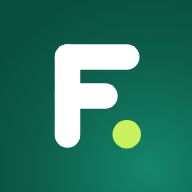
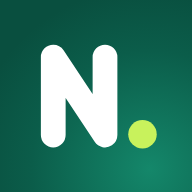
0.12.1

Changed region(s): [[0.1875, 0.2188, 0.8438, 0.7812]]

diff --git a/style.css b/style.css
@@ -1,4 +1,4 @@
-/* Finanças — aparência (0.12)
+/* Níquel — aparência (0.12)
    1. Fontes   2. Estilos (Mata, Ameixa, Maré) em claro e escuro   3. Estrutura   4. Componentes   5. Telas
    O modo (claro/escuro) e o estilo vêm de js/theme.js, que marca <html data-mode data-style>. */
 
@@ -72,6 +72,7 @@
 /* ---------- 3. estrutura ---------- */
 *{box-sizing:border-box}
 html{-webkit-text-size-adjust:100%}
+html,body{overflow-x:hidden; overflow-x:clip}
 body{margin:0; background:var(--bg); color:var(--ink); font:16px/1.45 var(--font); -webkit-tap-highlight-color:transparent; -webkit-font-smoothing:antialiased}
 /* faixa da cor do topo atrás do relógio e da bateria do iPhone (app instalado na tela de início) */
 body::before{content:''; position:fixed; top:0; left:0; right:0; height:env(safe-area-inset-top); background:var(--hero); z-index:4}
@@ -112,6 +113,7 @@ button{touch-action:manipulation}
 .card.flat, .card.inset{background:var(--field); box-shadow:none; border-color:transparent; margin:10px 0}
 .card.flat h2{font-size:15px}
 .card.late h2{color:var(--neg)}
+.card, .sheet .panel, .hcard{overflow-wrap:break-word}
 .hint{color:var(--muted); font-size:14px; margin:6px 0}
 .row{display:flex; gap:8px; flex-wrap:wrap; align-items:center}
 .grow{flex:1}
@@ -132,6 +134,12 @@ button{touch-action:manipulation}
 
 label{display:block; font-size:13px; font-weight:700; color:var(--muted); margin:14px 0 5px}
 input,select,textarea{width:100%; font-size:16px; padding:12px; border:1.5px solid var(--line); border-radius:var(--r-in); background:var(--field); min-height:48px}
+/* nenhum campo passa da largura da tela. No iPhone o campo de data tem largura mínima própria e texto centralizado:
+   sem a aparência nativa ele obedece à largura, como os outros, e o toque continua abrindo o calendário do sistema */
+input,select,textarea{max-width:100%; min-width:0}
+input[type=date],input[type=month],input[type=time]{-webkit-appearance:none; appearance:none; display:block; text-align:left; line-height:1.45}
+input::-webkit-date-and-time-value{text-align:left; min-height:1.45em}
+input[type=date]::-webkit-calendar-picker-indicator{margin-left:auto}
 input:focus,select:focus,textarea:focus{outline:none; border-color:var(--brand); background:var(--card)}
 input[type=checkbox]{width:22px; height:22px; min-height:0; accent-color:var(--brand); flex:none}
 .check{display:flex; align-items:center; gap:10px; padding:8px 0; font-size:15px; font-weight:400; color:var(--ink); margin:0}
@@ -141,7 +149,12 @@ input[type=checkbox]{width:22px; height:22px; min-height:0; accent-color:var(--b
 .seg button:disabled{opacity:.35}
 .seg.small button{font-size:13px; padding:8px 2px}
 #seg button{font-size:13px; padding-inline:2px; letter-spacing:-.01em}
+#seg button{white-space:nowrap; overflow:hidden; text-overflow:ellipsis}
+.seg button{overflow-wrap:normal}
+@media (max-width:350px){ #seg button{font-size:11.5px} .top h1{font-size:19px} .chip{padding:7px 9px; font-size:11px} .top{padding-left:12px; padding-right:12px} }
 .grid2{display:grid; grid-template-columns:1fr 1fr; gap:0 10px}
+.grid2>*, .rgrid>*, .kpis>*, .acts>*, .mgrid>*, .looks>*{min-width:0}
+.row>select, .row>input{flex:1 1 140px; width:auto}
 .pos{color:var(--pos)} .neg{color:var(--neg)}
 .num{font-variant-numeric:tabular-nums; white-space:nowrap}
 .pm{display:flex; gap:8px; align-items:stretch}
@@ -273,7 +286,7 @@ input[type=checkbox]{width:22px; height:22px; min-height:0; accent-color:var(--b
 .shead{flex:none; height:34px; display:grid; place-items:center; position:relative}
 .shead .grab{width:42px; height:5px; border-radius:3px; background:var(--line)}
 .shead .sx{position:absolute; right:10px; top:8px; width:34px; height:34px; border-radius:50%; border:0; background:var(--field); color:var(--muted); font-size:15px; font-weight:800; cursor:pointer; z-index:2; display:grid; place-items:center}
-.sheet .panel{background:var(--card); width:100%; max-width:560px; max-height:92vh; overflow:auto; border-radius:26px 26px 0 0; padding:18px 16px calc(16px + env(safe-area-inset-bottom)); -webkit-overflow-scrolling:touch}
+.sheet .panel{background:var(--card); width:100%; max-width:560px; max-height:92vh; overflow:hidden auto; overscroll-behavior:contain; border-radius:26px 26px 0 0; padding:18px 16px calc(16px + env(safe-area-inset-bottom)); -webkit-overflow-scrolling:touch}
 .sheet .box>.panel{max-width:none; max-height:none; border-radius:0; padding-top:0; flex:1; min-height:0}
 .sheet .panel.wide{max-width:720px}
 .sheet .box>.panel.wide{max-width:none}
@@ -428,7 +441,7 @@ body.locked #app, body.locked #sheet, body.locked .sheet.ask{visibility:hidden}
 @media (min-width:900px){
   .shell{padding:0 0 30px 232px}
   .tabs{top:0; bottom:0; right:auto; width:232px; flex-direction:column; justify-content:flex-start; gap:4px; border-top:0; border-right:1px solid var(--line); padding:20px 12px}
-  .tabs::before{content:'Finanças'; font-size:24px; font-weight:var(--hw); letter-spacing:var(--ls); padding:6px 12px 18px; color:var(--brand)}
+  .tabs::before{content:'Níquel'; font-size:24px; font-weight:var(--hw); letter-spacing:var(--ls); padding:6px 12px 18px; color:var(--brand)}
   .tabs button{flex:none; height:48px; flex-direction:row; justify-content:flex-start; gap:12px; font-size:15px; padding:0 12px; border-radius:var(--r-btn)}
   .tabs button svg{padding:0}
   .tabs button[aria-current="page"]{background:var(--brand-soft); color:var(--brand)}
@@ -448,4 +461,5 @@ body.locked #app, body.locked #sheet, body.locked .sheet.ask{visibility:hidden}
   .shead .grab{visibility:hidden}
   .toast{bottom:40px}
 }
-@media (prefers-reduced-motion:reduce){ *{animation-duration:.01ms !important; transition-duration:.01ms !important} }
+/* quem pediu menos movimento no aparelho: sem a subida da folha e sem as transições (só nas peças que têm; uma regra geral em * atrasava o bloqueio de esconder a tela) */
+@media (prefers-reduced-motion:reduce){ .sheet .box{animation:none} .toast, .fab, .btn, .qa i, .tabs button svg, .fat>summary::before{transition:none} }

diff --git a/js/app.js b/js/app.js
@@ -1,4 +1,4 @@
-/* Finanças · Fase 1 — núcleo: login, dados no aparelho + Drive, primeira configuração e telas básicas. */
+/* Níquel (antes "Finanças") · Fase 1 — núcleo: login, dados no aparelho + Drive, primeira configuração e telas básicas. */
 import * as auth from './auth.js';
 import * as sync from './sync.js';
 import * as drive from './drive.js';
@@ -14,7 +14,7 @@ import * as H from './imp/holerite.js';
 import * as L from './link.js';
 import * as PH from './holder.js';
 
-export const VERSION = '0.12.0';
+export const VERSION = '0.12.1';
 const CID_KEY = 'fin.cfg.clientId';
 const clientId = () => (window.FIN_CONFIG && FIN_CONFIG.clientId) || (() => { try { return localStorage.getItem(CID_KEY) || ''; } catch { return ''; } })();
 
@@ -135,7 +135,7 @@ function route() {
 
 /* ---------- sem ID do cliente (quem publicar a própria cópia) ---------- */
 function screenNoClient() {
-  app().innerHTML = `<div class="hero"><img src="icons/icon-192.png" alt=""><h1>Finanças</h1>
+  app().innerHTML = `<div class="hero"><img src="icons/icon-192.png" alt=""><h1>Níquel</h1>
     <p>Esta cópia ainda não tem o <b>ID do cliente</b> do Google. Siga o README do projeto para criar o seu e cole aqui.</p>
     <label for="cid">ID do cliente OAuth</label><input id="cid" autocomplete="off" autocapitalize="off" spellcheck="false" placeholder="…apps.googleusercontent.com">
     <button class="btn primary block" id="saveCid" style="margin-top:12px">Salvar</button>
@@ -150,7 +150,7 @@ function screenNoClient() {
 
 /* ---------- boas-vindas ---------- */
 function screenWelcome() {
-  app().innerHTML = `<div class="hero"><img src="icons/icon-192.png" alt=""><h1>Finanças</h1>
+  app().innerHTML = `<div class="hero"><img src="icons/icon-192.png" alt=""><h1>Níquel</h1>
     <p>Seu controle financeiro, com os dados guardados no <b>seu</b> Google Drive. Ninguém mais tem acesso.</p>
     <button class="btn primary block" id="login" style="margin-top:18px">Entrar com o Google</button>
     <p class="hint" id="offmsg">${navigator.onLine ? '' : 'Sem internet. Conecte-se para o primeiro acesso.'}</p>
@@ -1719,7 +1719,7 @@ function lockScreen() {
   const st = lock.settings(); let pin = '';
   const draw = msg => {
     const w = lock.waitSeconds();
-    box.innerHTML = `<div class="lockin"><img src="icons/icon-192.png" alt=""><h1>Finanças</h1><p class="hint" id="lk-msg">${msg || (w ? `Muitas tentativas. Aguarde ${w} s.` : 'Digite o PIN')}</p>
+    box.innerHTML = `<div class="lockin"><img src="icons/icon-192.png" alt=""><h1>Níquel</h1><p class="hint" id="lk-msg">${msg || (w ? `Muitas tentativas. Aguarde ${w} s.` : 'Digite o PIN')}</p>
       <div class="dots">${Array.from({ length: st.pinLen }, (_, i) => `<i class="${i < pin.length ? 'on' : ''}"></i>`).join('')}</div>
       <div class="pad">${[1, 2, 3, 4, 5, 6, 7, 8, 9].map(n => `<button data-k="${n}">${n}</button>`).join('')}
         ${st.bio ? '<button data-k="bio" aria-label="Usar Face ID ou Touch ID">◉</button>' : '<span></span>'}<button data-k="0">0</button><button data-k="del" aria-label="Apagar">⌫</button></div>
@@ -2357,7 +2357,7 @@ function pageAjustes() {
       <input type="file" id="impfile" accept=".json,application/json" hidden></div>
     <div class="card"><h2>Este aparelho</h2><p class="hint">Sair desconecta o Google. Remover apaga a cópia deste aparelho; os dados continuam no Drive.</p>
       <div class="row"><button class="btn" data-act="logout">Sair</button><button class="btn danger" data-act="forget">Remover dados deste aparelho</button></div></div>
-    <p class="hint" style="text-align:center">Finanças ${VERSION}</p>`;
+    <p class="hint" style="text-align:center">Níquel ${VERSION}</p>`;
   $('#impfile').onchange = ev => importFile(ev.target.files[0], false);
   bindSecurity();
   $('#page').onclick = async e => {

diff --git a/index.html b/index.html
@@ -6,12 +6,12 @@
 <meta name="apple-mobile-web-app-capable" content="yes">
 <meta name="mobile-web-app-capable" content="yes">
 <meta name="apple-mobile-web-app-status-bar-style" content="black-translucent">
-<meta name="apple-mobile-web-app-title" content="Finanças">
+<meta name="apple-mobile-web-app-title" content="Níquel">
 <meta name="theme-color" content="#0b5d4a">
 <meta http-equiv="Content-Security-Policy" content="default-src 'self'; script-src 'self' https://accounts.google.com; connect-src 'self' https://www.googleapis.com https://oauth2.googleapis.com https://accounts.google.com; frame-src https://accounts.google.com; img-src 'self' data: blob:; style-src 'self' 'unsafe-inline' https://accounts.google.com; font-src 'self' data:; worker-src 'self' blob:; object-src 'none'; base-uri 'self'; form-action 'self'">
 <meta name="referrer" content="no-referrer">
 <meta name="description" content="Controle financeiro pessoal com os dados no seu Google Drive.">
-<title>Finanças</title>
+<title>Níquel</title>
 <link rel="manifest" href="manifest.webmanifest">
 <link rel="apple-touch-icon" href="icons/apple-touch-icon.png">
 <link rel="icon" type="image/png" href="icons/icon-192.png">
@@ -24,6 +24,6 @@
 <div id="app"><p class="boot">Carregando…</p></div>
 <div id="sheet" class="sheet" hidden></div>
 <div id="toast" class="toast" role="status" aria-live="polite"></div>
-<noscript><p class="boot">Ative o JavaScript para usar o Finanças.</p></noscript>
+<noscript><p class="boot">Ative o JavaScript para usar o Níquel.</p></noscript>
 </body>
 </html>

diff --git a/sw.js b/sw.js
@@ -1,7 +1,7 @@
 // Guarda os arquivos do próprio app para abrir sem internet. Nada do Google (login, Drive) passa por aqui.
 // O leitor de PDF (vendor/pdfjs, ~1,5 MB) não entra na instalação: é guardado na primeira importação.
 // Ao mudar qualquer arquivo do app, aumente VERSION para os aparelhos baixarem a versão nova.
-const VERSION = 'v0.12.0';
+const VERSION = 'v0.12.1';
 const SHELL = ['./', 'index.html', 'style.css', 'config.js', 'manifest.webmanifest',
   'js/theme.js', 'js/app.js', 'js/auth.js', 'js/calc.js', 'js/drive.js', 'js/model.js', 'js/store.js', 'js/sync.js', 'js/lock.js', 'js/pix.js', 'js/imp/parcelas.js', 'js/imp/holerite.js', 'js/link.js', 'js/holder.js',
   'js/imp/pdftext.js', 'js/imp/parse.js', 'js/imp/classify.js', 'js/imp/plan.js',

diff --git a/js/calc.js b/js/calc.js
@@ -398,7 +398,7 @@ export function yearCsv(S, year) {
 
 /* ---------- lembretes: arquivo de calendário (.ics) com os vencimentos pendentes ---------- */
 const icsEsc = s => String(s || '').replace(/[\\;,]/g, c => '\\' + c).replace(/\n/g, '\\n');
-export function icsPendings(S, { until, hour = 9, appName = 'Finanças' } = {}) {
+export function icsPendings(S, { until, hour = 9, appName = 'Níquel' } = {}) {
   const stamp = new Date().toISOString().replace(/[-:]/g, '').replace(/\.\d+/, '');
   const lines = ['BEGIN:VCALENDAR', 'VERSION:2.0', 'PRODID:-//' + appName + '//PT-BR', 'CALSCALE:GREGORIAN', 'METHOD:PUBLISH', 'X-WR-CALNAME:' + icsEsc(appName + ' · vencimentos')];
   pendings(S, until).forEach(p => {

diff --git a/js/lock.js b/js/lock.js
@@ -57,8 +57,8 @@ export async function bioAvailable() {
 }
 export async function enrollBio() {
   const cred = await navigator.credentials.create({ publicKey: {
-    challenge: rand(32), rp: { name: 'Finanças', id: location.hostname },
-    user: { id: rand(16), name: 'financas', displayName: 'Finanças' },
+    challenge: rand(32), rp: { name: 'Níquel', id: location.hostname },
+    user: { id: rand(16), name: 'financas', displayName: 'Níquel' },
     pubKeyCredParams: [{ type: 'public-key', alg: -7 }, { type: 'public-key', alg: -257 }],
     authenticatorSelection: { authenticatorAttachment: 'platform', userVerification: 'required', residentKey: 'discouraged' }, timeout: 60000
   } });

diff --git a/README.md b/README.md
@@ -1,4 +1,4 @@
-# Finanças
+# Níquel
 
 Controle financeiro pessoal, gratuito, que roda no navegador e guarda os dados no **Google Drive de quem usa**. Feito primeiro para o celular (iPhone), com adaptação para computador.
 
@@ -7,7 +7,8 @@ Controle financeiro pessoal, gratuito, que roda no navegador e guarda os dados n
 - O app só enxerga os arquivos que ele mesmo criou no Drive (permissão `drive.file`).
 - Funciona sem internet: tudo fica salvo no aparelho e vai para o Drive quando a conexão volta. Se dois aparelhos alterarem ao mesmo tempo, as alterações são juntadas lançamento a lançamento.
 
-**Versão atual: 0.12.0.** Novidades:
+**Versão atual: 0.12.1.** Novidades:
+- **0.12.1:** o app passa a se chamar **Níquel** (antes "Finanças") e ganha ícone com a inicial. Nada muda nos dados: a pasta no Drive continua **Finanças (app)**, o arquivo continua `financas-dados.json` e o endereço do site é o mesmo.
 - **0.12.0:** **cara nova e ações à mão.** Aparência em Ajustes: modo **automático, claro ou escuro** e três **estilos** (Mata, Ameixa, Maré), cada um com cores, letra e formato de botão próprios; vale por aparelho. Topo colorido com o mês e o resultado em destaque; **atalhos** em Lançamentos (Importar, Despesa, Compra no cartão, Receita, Transferir, Pagar fatura); botão **+** em todas as abas. Na **fatura**, "Importar", "+ Compra", "Registrar pagamento" e "Editar cartão" ficam no alto, antes da lista de compras; em Lançamentos, cada fatura do mês tem "Abrir", "Importar" e "Pagar". Toda folha tem **botão de fechar** e os botões de salvar ficam presos embaixo; "+ Nova conta", "+ Novo cartão", "+ Nova reserva", "+ Eu devo" e os cadastros de Fixas e parcelas subiram para o título de cada bloco. No computador, o menu fica na lateral. Ícone novo.
 - **0.11.0:** **quem usa o cartão** (titular, adicional, virtual): em Contas › cartão › "Quem usa este cartão", cada final de 4 dígitos ganha um nome. As compras lidas da fatura (PDF, ou CSV com coluna "Final"/"Cartão") recebem a marca de quem usou, além da categoria, e a fatura e o Resumo mostram o total por pessoa. Por padrão é despesa de quem paga a fatura; se a pessoa devolve o dinheiro, as compras dela saem das despesas e o app cria um "a receber" por fatura, que o Pix dela quita pelo "Vincular a…" (se vier menos, o resto continua a receber). Editar a categoria de uma compra importada não a tira mais da fatura em que veio.
 - **0.10.2:** **fatura que o cartão não gerou** (mudança de vencimento): na tela da fatura que só tem parcelas previstas, "avise que esta fatura não existiu" passa parcelas e pagamentos para a fatura seguinte; as parcelas previstas acompanham a última parcela real de cada compra.
